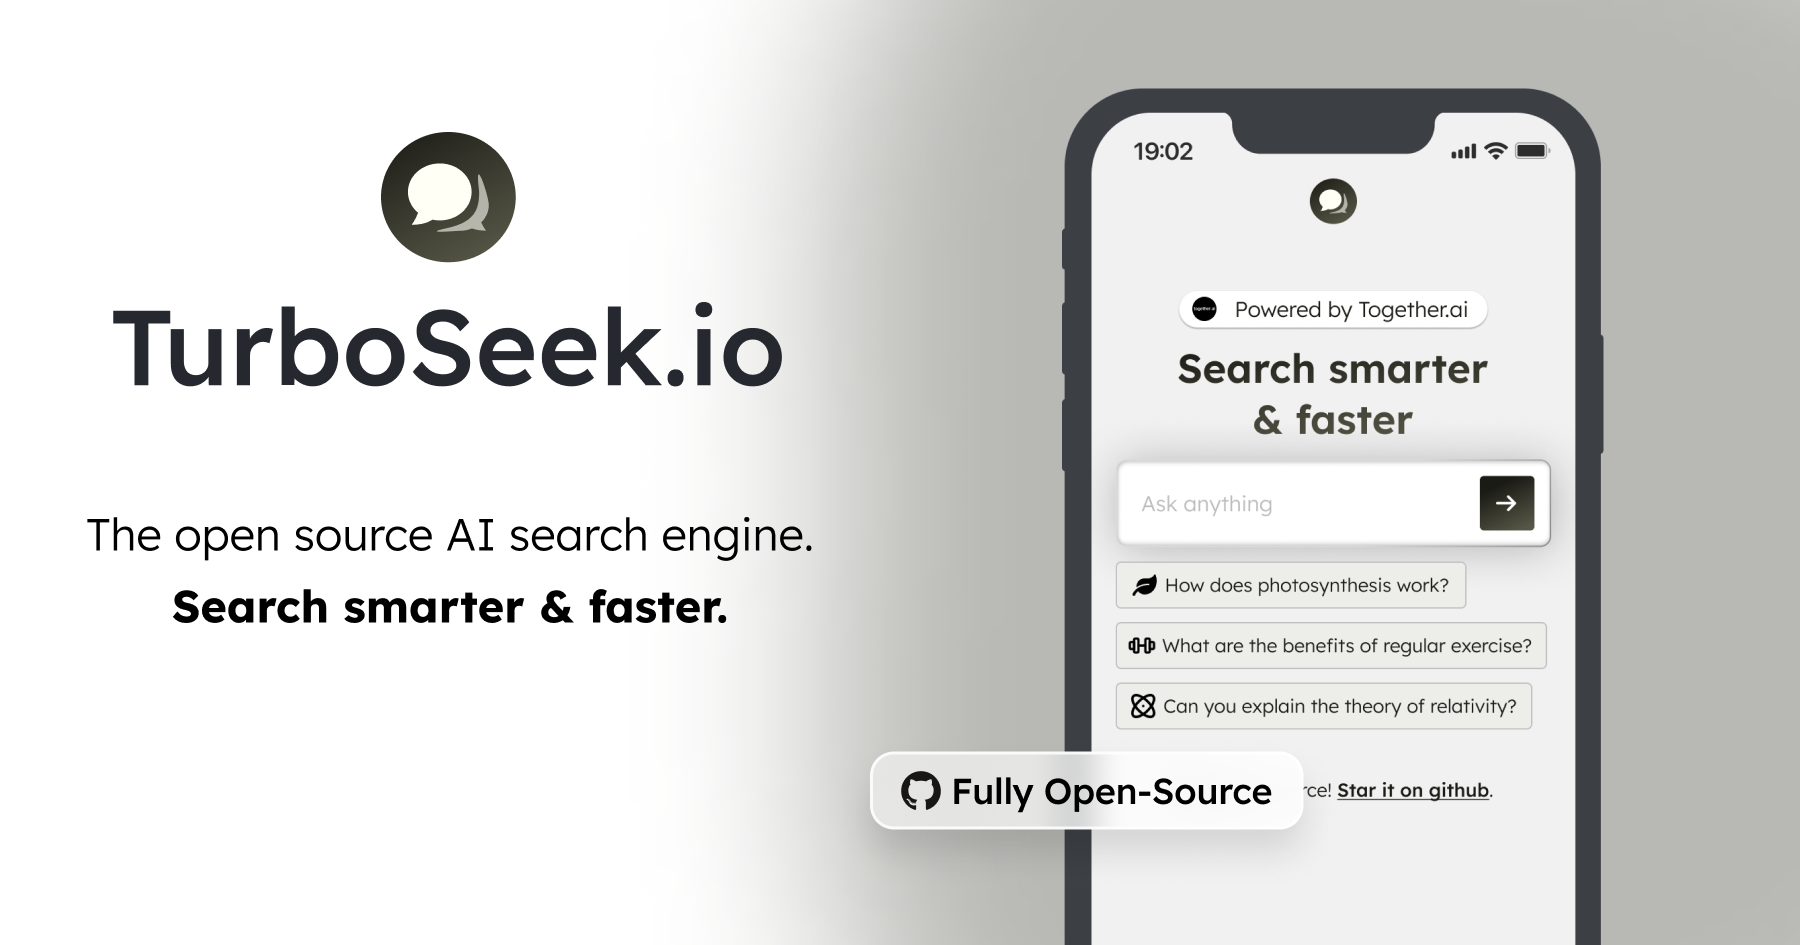
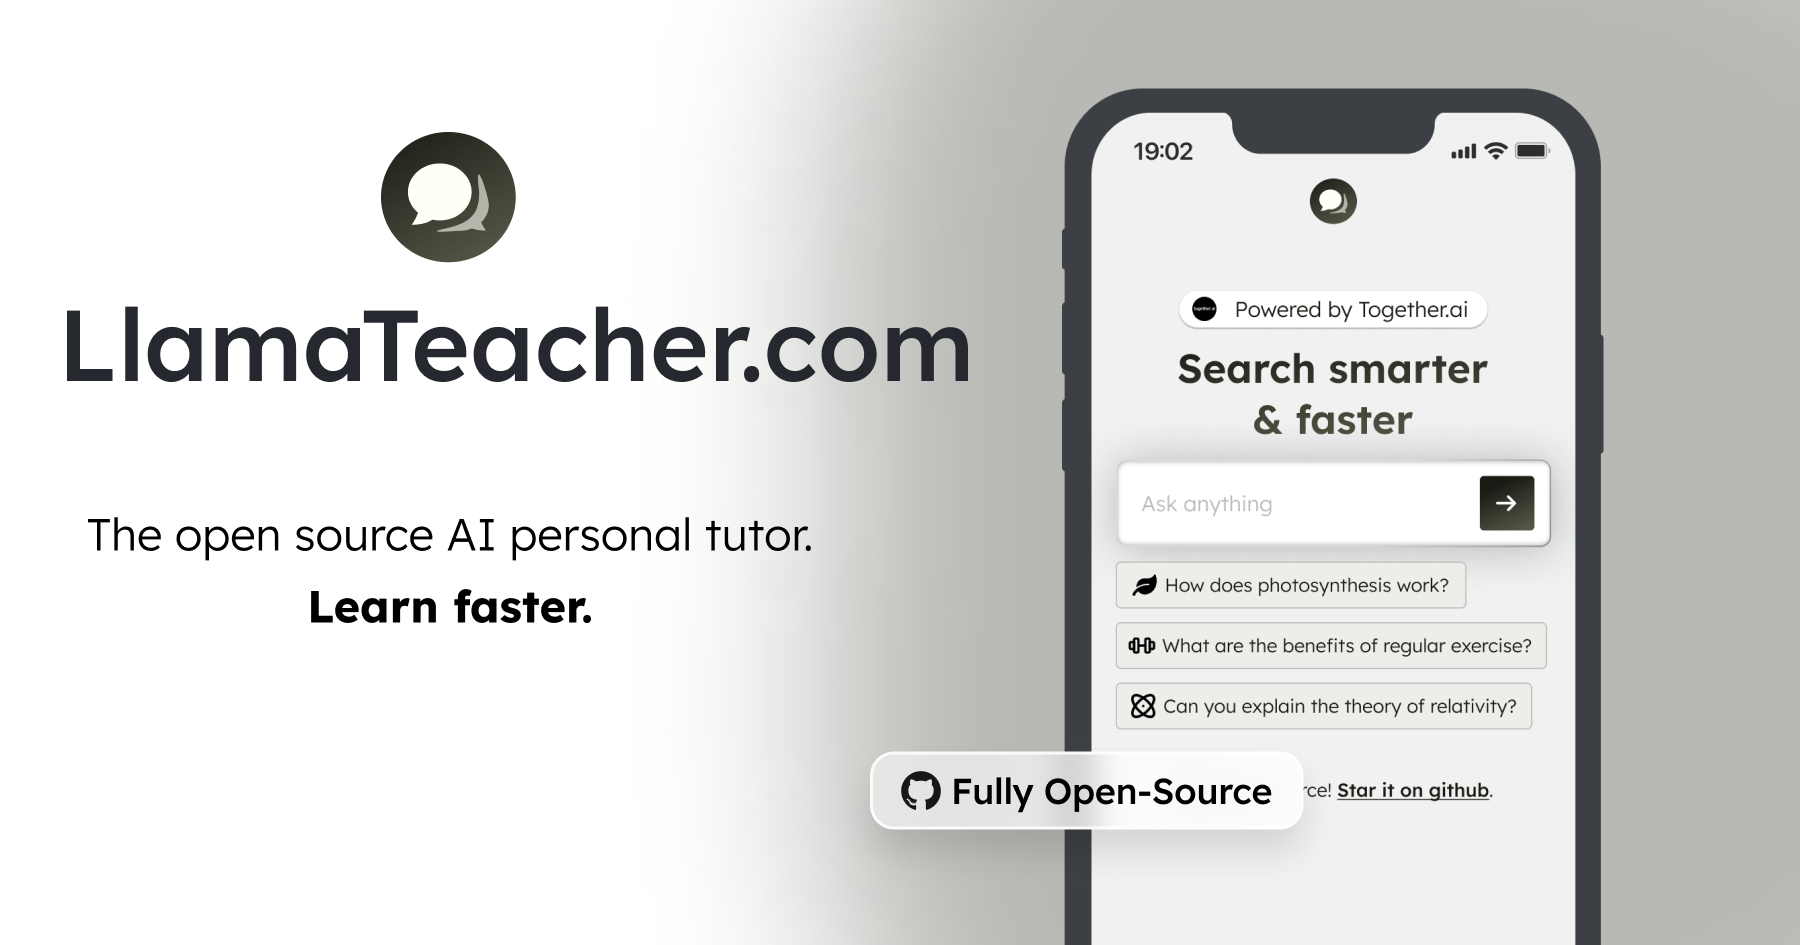
changed overall basics

Changed region(s): [[0.0311, 0.3069, 0.56, 0.4296], [0.0933, 0.6138, 0.4044, 0.6751], [0.0622, 0.5524, 0.4667, 0.5831]]

diff --git a/components/Hero.tsx b/components/Hero.tsx
@@ -26,17 +26,17 @@ const Hero: FC<THeroProps> = ({
       >
         <Image
           unoptimized
-          src="/img/together-ai.svg"
+          src="/meta-llama-small.png"
           alt="hero"
-          width={18}
-          height={18}
+          width={30}
+          height={30}
         />
         <span className="text-center text-base font-light leading-[normal] text-[#1B1B16]">
-          Powered by Together AI
+          Powered by Llama 3 70B
         </span>
       </a>
       <h2 className="bg-custom-gradient bg-clip-text pb-7 pt-2 text-center text-3xl font-semibold leading-[normal] lg:text-[64px]">
-        Search smarter & faster
+        Personalized tutor for any topic
       </h2>
 
       {/* input section */}
@@ -76,7 +76,7 @@ const Hero: FC<THeroProps> = ({
         Fully open source!{" "}
         <span className="text-sm font-medium underline">
           <a
-            href="https://github.com/Nutlope/turboseek"
+            href="https://github.com/Nutlope/llamateacher"
             target="_blank"
             rel="noopener noreferrer"
           >

diff --git a/app/layout.tsx b/app/layout.tsx
@@ -5,12 +5,12 @@ import "./globals.css";
 
 const inter = Lexend({ subsets: ["latin"] });
 
-let title = "Turbo Seek – AI Search Engine";
+let title = "Llama Teacher – AI Personal Tutor";
 let description =
-  "Search smarter and faster with our open source AI search engine";
-let url = "https://turboseek.io/";
-let ogimage = "https://turboseek.io/og-image.png";
-let sitename = "TurboSeek.io";
+  "Learn faster with our open source AI personal tutor";
+let url = "https://LlamaTeacher.com/";
+let ogimage = "https://LlamaTeacher.com/og-image.png";
+let sitename = "llamateacher.com";
 
 export const metadata: Metadata = {
   metadataBase: new URL(url),
@@ -44,7 +44,7 @@ export default function RootLayout({
   return (
     <html lang="en">
       <head>
-        <PlausibleProvider domain="turboseek.io" />
+        <PlausibleProvider domain="llamateacher.com" />
       </head>
       <body
         className={`${inter.className} flex min-h-screen flex-col justify-between`}

diff --git a/components/Footer.tsx b/components/Footer.tsx
@@ -14,7 +14,7 @@ const Footer = () => {
             height={30}
           />
           <span className="text-base font-medium leading-[normal]">
-            TurboSeek.io
+            LlamaTeacher.com
           </span>
         </a>
         <div className="flex items-center gap-3">
@@ -27,7 +27,7 @@ const Footer = () => {
               height={15}
             />
           </Link>
-          <Link href={"https://github.com/Nutlope/turboseek"} target="_blank">
+          <Link href={"https://github.com/Nutlope/llamateacher"} target="_blank">
             <Image
               unoptimized
               src={"/img/github-footer.svg"}

diff --git a/components/InputArea.tsx b/components/InputArea.tsx
@@ -28,7 +28,7 @@ const InputArea: FC<TInputAreaProps> = ({
     >
       <input
         type="text"
-        placeholder="Ask anything"
+        placeholder="Learn about anything"
         className="focus-visible::outline-0 my-1 w-full pl-5 font-light not-italic leading-[normal] text-[#1B1B16]/30 text-black outline-none focus-visible:ring-0 focus-visible:ring-offset-0 sm:text-xl"
         disabled={disabled}
         value={promptValue}

diff --git a/README.md b/README.md
@@ -1,28 +1,20 @@
-<a href="https://www.turboseek.io">
-  <img alt="Turbo Seek" src="./public/og-image.png">
-  <h1 align="center">TurboSeek</h1>
+<a href="https://www.LlamaTeacher.com">
+  <img alt="Llama teacher" src="./public/og-image.png">
+  <h1 align="center">Llama Teacher</h1>
 </a>
 
 <p align="center">
-  An open source AI search engine. Powered by Together.ai.
+  An open source AI personal tutor. Powered by Llama 3 70B & Together.ai.
 </p>
 
 ## Tech stack
 
-- Next.js app router with Tailwind
+- Llama 3 from Meta for the LLM
 - Together AI for LLM inference
-- Mixtral 8x7B & Llama-3 for the LLMs
-- Bing for the search API
+- Next.js app router with Tailwind
+- Serper for the search API
 - Helicone for observability
 - Plausible for website analytics
-
-## How it works
-
-1. Take in a user's question
-2. Make a request to the bing search API to look up the top 6 results and show them
-3. Scrape text from the 6 links bing sent back and store it as context
-4. Make a request to Mixtral-8x7B with the user's question + context & stream it back to the user
-5. Make another request to Llama-3-8B to come up with 3 related questions the user can follow up with
 
 ## Cloning & running
 
@@ -32,22 +24,3 @@
 4. Create an account at [Helicone](https://www.helicone.ai/) for observability
 5. Create a `.env` (use the `.example.env` for reference) and replace the API keys
 6. Run `npm install` and `npm run dev` to install dependencies and run locally
-
-## Future tasks
-
-- [ ] Move back to the Together SDK + simpler streaming
-- [ ] Add a tokenizer to smartly count number of tokens for each source and ensure we're not going over
-- [ ] Add a regenerate option for a user to re-generate
-- [ ] Make sure the answer correctly cites all the sources in the text & number the citations in the UI
-- [ ] Add sharability to allow folks to share answers
-- [ ] Automatically scroll when an answer is happening, especially for mobile
-- [ ] Fix hard refresh in the header and footer by migrating answers to a new page
-- [ ] Add upstash redis for caching results & rate limiting users
-- [ ] Add in more advanced RAG techniques like keyword search & question rephrasing
-- [ ] Add authentication with Clerk if it gets popular along with postgres/prisma to save user sessions
-
-## Inspiration
-
-- Perplexity
-- You.com
-- Lepton search
